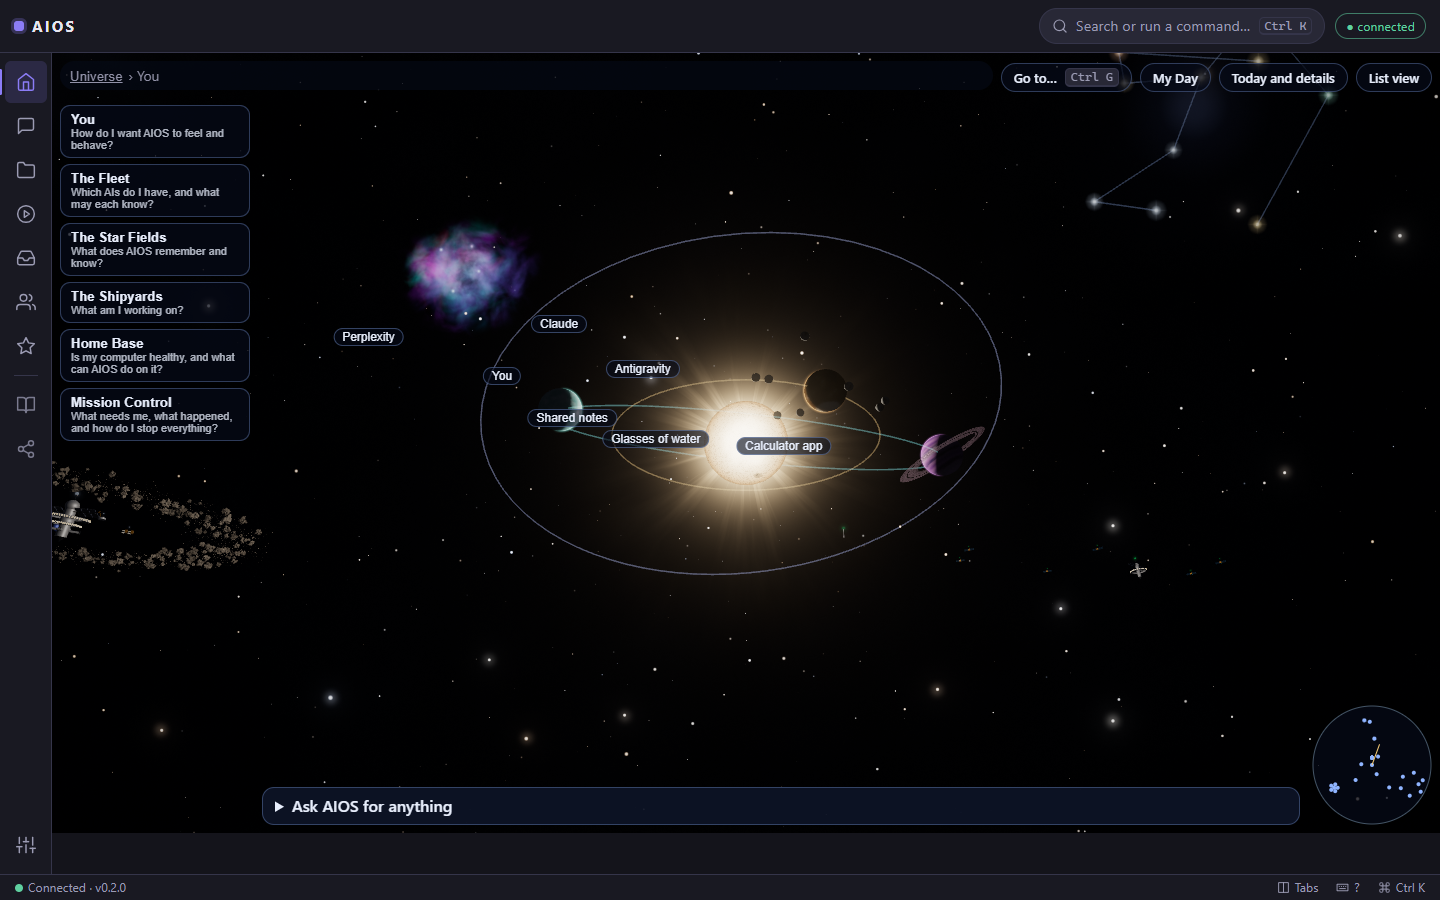
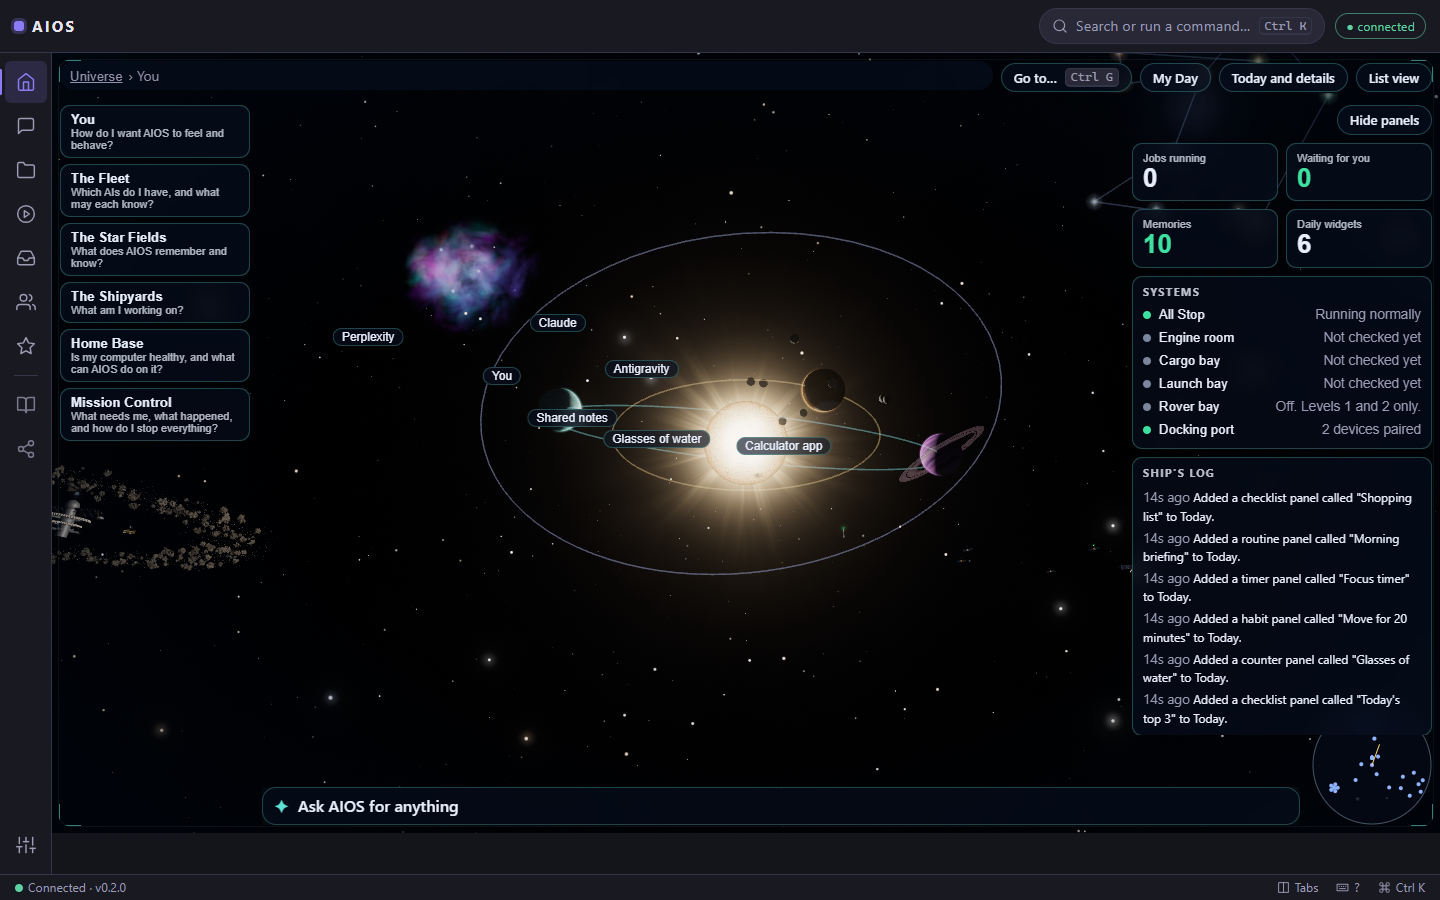
Mission-control glass panels, flat fallback on software graphics, and Android e2e for the cockpit
Design ideas taken from the supplied references: translucent panels with a teal edge, HUD corner frames, at-a-glance tiles, a systems list, a ship's log and pulsing markers for anything that needs you. Devices that draw WebGL in software (such as the emulator) now get the flat universe because the 3D view froze the screen there.

diff --git a/apps/web/src/styles.css b/apps/web/src/styles.css
@@ -615,3 +615,36 @@ details.tech { margin: 18px 0 8px; } details.tech > summary { cursor: pointer; c
 .cockpit .mydock { background: transparent; }
 .cockpit .myday-card button { min-height: 0; padding: 4px 10px; }
 .cockpit .myday-card input[type="checkbox"] { width: 18px; height: 18px; min-height: 0; flex: none; }
+
+/* Mission-control glass: translucent panels, a cool teal edge, HUD corners and a glow on anything that needs you. */
+.cockpit { --glass: rgba(6, 14, 30, .62); --edge: rgba(94, 226, 214, .28); --teal: #5ee2d6; }
+.cockpit::before { content: ""; position: absolute; inset: 0; z-index: 1; pointer-events: none; background: radial-gradient(ellipse at 50% 55%, transparent 45%, rgba(0, 8, 20, .55) 100%); }
+.cockpit::after { content: ""; position: absolute; inset: 6px; z-index: 1; pointer-events: none; border: 1px solid rgba(94, 226, 214, .12); border-radius: 14px;
+  background: linear-gradient(var(--teal), var(--teal)) top left / 22px 1px no-repeat, linear-gradient(var(--teal), var(--teal)) top left / 1px 22px no-repeat,
+    linear-gradient(var(--teal), var(--teal)) top right / 22px 1px no-repeat, linear-gradient(var(--teal), var(--teal)) top right / 1px 22px no-repeat,
+    linear-gradient(var(--teal), var(--teal)) bottom left / 22px 1px no-repeat, linear-gradient(var(--teal), var(--teal)) bottom left / 1px 22px no-repeat,
+    linear-gradient(var(--teal), var(--teal)) bottom right / 22px 1px no-repeat, linear-gradient(var(--teal), var(--teal)) bottom right / 1px 22px no-repeat; opacity: .55; }
+.cockpit .dock button, .cockpit .btn-quiet, .cockpit .u-label, .cockpit .crumbs, .cockpit .ask-dock { background: var(--glass); border-color: var(--edge); backdrop-filter: blur(10px); -webkit-backdrop-filter: blur(10px); }
+.cockpit .object-card, .cockpit .gallery-pop, .cockpit .goto { backdrop-filter: blur(14px); -webkit-backdrop-filter: blur(14px); border-color: var(--edge); box-shadow: 0 0 24px rgba(94, 226, 214, .08); }
+.cockpit .dock button.on, .cockpit .btn-quiet[aria-pressed="true"] { border-color: var(--teal); box-shadow: 0 0 12px rgba(94, 226, 214, .25); }
+.cockpit .u-label.needs-you { border-color: #ffc857; animation: needs-pulse 2s ease-out infinite; }
+@keyframes needs-pulse { 0% { box-shadow: 0 0 0 0 rgba(255, 200, 87, .55); } 70%, 100% { box-shadow: 0 0 0 12px rgba(255, 200, 87, 0); } }
+.cockpit .hud { position: absolute; right: 8px; top: 52px; width: min(300px, calc(100% - 230px)); display: grid; gap: 8px; z-index: 5; max-height: calc(100% - 215px); overflow: auto; }
+.cockpit .hud-toggle { justify-self: end; }
+.cockpit .hud-show { position: absolute; right: 8px; top: 52px; z-index: 5; }
+.cockpit .tiles { display: grid; grid-template-columns: 1fr 1fr; gap: 8px; }
+.cockpit .tile { text-align: left; background: var(--glass); border: 1px solid var(--edge); border-radius: 10px; padding: 8px 10px; color: inherit; cursor: pointer; backdrop-filter: blur(10px); }
+.cockpit .tile-label { display: block; font-size: 11px; opacity: .75; }
+.cockpit .tile-value { display: block; font-size: 26px; font-weight: 600; line-height: 1.1; }
+.cockpit .tile.warn { border-color: #ffc857; } .cockpit .tile.bad { border-color: #ff5d6c; } .cockpit .tile.ok .tile-value { color: #3ee0a0; }
+.cockpit .glass { background: var(--glass); border: 1px solid var(--edge); border-radius: 10px; padding: 8px 10px; backdrop-filter: blur(10px); }
+.cockpit .glass h2 { margin: 0 0 6px; font-size: 11px; letter-spacing: .12em; text-transform: uppercase; opacity: .8; }
+.cockpit .systems, .cockpit .shiplog { list-style: none; margin: 0; padding: 0; display: grid; gap: 2px; font-size: 12px; }
+.cockpit .systems button { display: flex; align-items: center; gap: 8px; width: 100%; background: none; border: 0; color: inherit; text-align: left; padding: 3px 0; cursor: pointer; }
+.cockpit .systems .dot { width: 8px; height: 8px; border-radius: 50%; flex: none; }
+.cockpit .systems .muted { margin-left: auto; }
+@media (max-width: 900px) { .cockpit .hud { display: none; } .cockpit .hud-show { display: none; } }
+@media (prefers-reduced-motion: reduce) { .cockpit .u-label.needs-you { animation: none; } }
+.cockpit .ask-dock { border-radius: 14px; box-shadow: 0 0 22px rgba(94, 226, 214, .10); }
+.cockpit .ask-dock > summary::marker { content: ""; }
+.cockpit .ask-dock > summary::before { content: "\2726"; color: var(--teal); margin-right: 10px; }

diff --git a/apps/web/src/ui/Cockpit.tsx b/apps/web/src/ui/Cockpit.tsx
@@ -10,6 +10,8 @@ import { useApp } from "./Context";
 import { go, useLoad } from "./hooks";
 import { Notice } from "./kit";
 import { FirstLaunch, firstLaunchPending } from "./FirstLaunch";
+import { Hud } from "./Hud";
+import { needsYou } from "../core/hud";
 import { MyDay } from "./MyDay";
 import { ObjectCard } from "./ObjectCard";
 import { WidgetGallery } from "./WidgetGallery";
@@ -155,7 +157,7 @@ export function Cockpit({ objectId, children }: { objectId?: string; children?: 
         <ObjectField world={shown} cam={cam} view={view} selected={selected} hovered={hovered} frames={arrivals.frames} simT={simT} onPick={open} onHover={setHovered} />
       ))}
       {!listView && declutter(shown, cam, view, simT, selected, hovered).map(({ b, x, y, r }) => (
-        <button key={b.id} type="button" className={`u-label ${selected === b.id ? "on" : ""}`} style={{ left: x, top: y + Math.max(8, r) + 4, opacity: arrivals.frames.get(b.id)?.alpha ?? 1 }}
+        <button key={b.id} type="button" className={`u-label ${selected === b.id ? "on" : ""} ${needsYou(b) ? "needs-you" : ""}`} style={{ left: x, top: y + Math.max(8, r) + 4, opacity: arrivals.frames.get(b.id)?.alpha ?? 1 }}
           onClick={() => open(b.id)} onPointerEnter={() => setHovered(b.id)} onPointerLeave={() => setHovered(null)} aria-label={`${b.name}: ${b.state.text}`}>{b.name}</button>))}
       {listView && <ListView world={world} onPick={(id) => { setListView(false); open(id); }} />}
 
@@ -181,6 +183,7 @@ export function Cockpit({ objectId, children }: { objectId?: string; children?: 
           <WidgetGallery onClose={() => setGallery(false)} onAdded={() => { setDayKey((n) => n + 1); setDay(true); void objs.reload(); if (firstLaunchPending()) setShowcase(true); }} />
         </div>)}
       {showcase && <FirstLaunch onDone={() => setShowcase(false)} />}
+      {!selected && !day && !gallery && !listView && list && <Hud objects={list} memories={uni.data?.you.approved ?? null} onOpen={open} />}
       {selected && <ObjectCard id={selected} onClose={() => open(null)} reload={() => { void objs.reload(); }} onReplay={() => arrivals.replay(selected)} />}
       <ArrivalCaption caption={arrivals.caption} onSkip={arrivals.skip} />
       {goOpen && <GoTo world={world} onClose={() => setGoOpen(false)} onPick={(d) => { setGoOpen(false); if (d.kind === "region") { open(null); travelTo(d.id as Region); } else open(d.id); }} />}

diff --git a/apps/web/src/ui/Hud.tsx b/apps/web/src/ui/Hud.tsx
@@ -1,0 +1,40 @@
+import { useState } from "react";
+import { UObject } from "../core/scene";
+import { TONE_DOT, systems, tiles } from "../core/hud";
+import { useApp } from "./Context";
+import { go, useLoad } from "./hooks";
+import { ago } from "./kit";
+
+interface Receipt { id: string; ts: string; actor: string; kind: string; summary: string; changed: number }
+
+/** Glass panels along the right edge: a few real numbers, how each system is, and the ship's log. */
+export function Hud({ objects, memories, onOpen }: { objects: readonly UObject[]; memories: number | null; onOpen: (id: string) => void }) {
+  const { client } = useApp();
+  const [open, setOpen] = useState(true);
+  const log = useLoad(() => client.get<{ items: Receipt[] }>("/receipts", { query: { limit: 6 } }), [client], 20000);
+  if (!open) return <button type="button" className="btn btn-quiet hud-toggle hud-show" onClick={() => setOpen(true)} aria-expanded="false">Show panels</button>;
+  return (
+    <aside className="hud" aria-label="At a glance">
+      <button type="button" className="btn btn-quiet hud-toggle" onClick={() => setOpen(false)} aria-expanded="true">Hide panels</button>
+      <div className="tiles">
+        {tiles(objects, memories).map((t) => (
+          <button key={t.id} type="button" className={`tile ${t.tone}`} title={t.hint} onClick={() => (t.to ? go(t.to as never) : undefined)}>
+            <span className="tile-label">{t.label}</span><span className="tile-value">{t.value}</span>
+          </button>))}
+      </div>
+      <section className="glass" aria-label="Systems">
+        <h2>Systems</h2>
+        <ul className="systems">
+          {systems(objects).map((s) => (
+            <li key={s.id}><button type="button" onClick={() => onOpen(s.id)}><span className="dot" style={{ background: TONE_DOT[s.tone] }} aria-hidden="true" /><span>{s.name}</span><span className="muted small">{s.text}</span></button></li>))}
+        </ul>
+      </section>
+      <section className="glass" aria-label="Ship's log">
+        <h2>Ship's log</h2>
+        {log.data?.items.length ? (
+          <ul className="shiplog">{log.data.items.map((r) => <li key={r.id}><span className="muted small">{ago(r.ts)}</span> {r.summary}</li>)}</ul>
+        ) : <p className="muted small">Nothing yet. What AIOS does will show up here in plain words.</p>}
+      </section>
+    </aside>
+  );
+}

diff --git a/apps/web/src/core/hud.ts b/apps/web/src/core/hud.ts
@@ -1,0 +1,32 @@
+import { Tone, UObject } from "./scene";
+
+// The glass panels over the universe: a few real numbers, the state of each system, and the latest log lines.
+// Everything here is computed from what the server already says; nothing is invented and nothing is a trend we do not have.
+
+export interface Tile { id: string; label: string; value: number; tone: Tone; hint: string; to?: { tab: string; id?: string } }
+export interface SystemRow { id: string; name: string; text: string; tone: Tone }
+
+const countOf = (o: UObject) => (typeof o.meta?.count === "number" ? (o.meta.count as number) : 1);
+
+export function tiles(objects: readonly UObject[], approvedMemories: number | null): Tile[] {
+  const running = objects.filter((o) => o.type === "shuttle" && o.state.tone === "info").length;
+  const waiting = objects.filter((o) => o.type === "comet" && o.id === "comet:approvals").reduce((n, o) => n + countOf(o), 0);
+  const stuck = objects.filter((o) => o.type === "comet" && o.id === "comet:blocked").reduce((n, o) => n + countOf(o), 0);
+  const probes = objects.filter((o) => o.type === "probe").length;
+  const out: Tile[] = [
+    { id: "jobs", label: "Jobs running", value: running, tone: running ? "info" : "muted", hint: "Work in flight between your projects and your AIs", to: { tab: "runs" } },
+    { id: "waiting", label: "Waiting for you", value: waiting + stuck, tone: stuck ? "bad" : waiting ? "warn" : "ok", hint: "Approvals and stuck jobs", to: { tab: "inbox" } },
+    { id: "probes", label: "Daily widgets", value: probes, tone: "muted", hint: "Probes in My Day" },
+  ];
+  if (approvedMemories !== null) out.splice(2, 0, { id: "memories", label: "Memories", value: approvedMemories, tone: "ok", hint: "Things AIOS remembers for you", to: { tab: "ais", id: "knows" } });
+  return out;
+}
+
+export function systems(objects: readonly UObject[]): SystemRow[] {
+  return objects.filter((o) => o.type === "module" || o.type === "allstop").map((o) => ({ id: o.id, name: o.name, text: o.state.text, tone: o.state.tone }));
+}
+
+export const TONE_DOT: Record<Tone, string> = { ok: "#3ee0a0", info: "#5ab4ff", warn: "#ffc857", bad: "#ff5d6c", muted: "#7a869c" };
+
+/** Things that need you glow and pulse so you can find them in the dark. */
+export const needsYou = (o: UObject) => o.state.tone === "warn" || o.state.tone === "bad";

diff --git a/apps/web/src/gl/capabilities.ts b/apps/web/src/gl/capabilities.ts
@@ -1,5 +1,8 @@
 // WebGL2 feature detection. `make` lets tests supply a fake canvas.
+type GLLike = { getExtension?(n: string): unknown; getParameter?(p: number): unknown };
 type CanvasLike = { getContext(kind: string, opts?: unknown): unknown };
+
+const SOFTWARE = /swiftshader|llvmpipe|softpipe|software|basic render|microsoft basic/i;
 
 export function isWebGL2Available(make: () => CanvasLike = () => document.createElement("canvas")): boolean {
   try {
@@ -9,7 +12,24 @@ export function isWebGL2Available(make: () => CanvasLike = () => document.create
   }
 }
 
-/** Why WebGL2 cannot be used, in plain words, or null when it can. */
-export function unsupportedReason(make?: () => CanvasLike): string | null {
-  return isWebGL2Available(make) ? null : "This browser or device does not support WebGL2, so the 3D universe cannot be drawn.";
+/** The name of the graphics chip the browser reports, or "" when it will not say. */
+export function rendererName(gl: GLLike | null): string {
+  try {
+    const ext = gl?.getExtension?.("WEBGL_debug_renderer_info") as { UNMASKED_RENDERER_WEBGL: number } | null | undefined;
+    return ext && gl?.getParameter ? String(gl.getParameter(ext.UNMASKED_RENDERER_WEBGL) ?? "") : "";
+  } catch {
+    return "";
+  }
+}
+
+const forced = () => { try { return localStorage.getItem("aios.gl.force") === "1"; } catch { return false; } };
+
+/** Why the 3D universe should not be used, in plain words, or null when it can. A phone emulator or a machine with no graphics chip
+ *  draws WebGL in software, which freezes the screen, so those get the flat universe unless the person forces 3D on. */
+export function unsupportedReason(make: () => CanvasLike = () => document.createElement("canvas")): string | null {
+  let gl: unknown = null;
+  try { gl = make().getContext("webgl2"); } catch { gl = null; }
+  if (!gl) return "This browser or device does not support WebGL2, so the 3D universe cannot be drawn.";
+  if (!forced() && SOFTWARE.test(rendererName(gl as GLLike))) return "This device draws 3D in software, which is too slow, so AIOS shows the flat universe instead.";
+  return null;
 }

diff --git a/apps/web/src/core/hud.test.ts b/apps/web/src/core/hud.test.ts
@@ -1,0 +1,23 @@
+import { describe, expect, it } from "vitest";
+import { needsYou, systems, tiles } from "./hud";
+import { sampleObjects } from "./scene.fixtures";
+
+describe("the glass panels", () => {
+  it("counts only what the server says, and flags anything stuck", () => {
+    const t = Object.fromEntries(tiles(sampleObjects(), 70).map((x) => [x.id, x]));
+    expect(t.jobs.value).toBe(2);                                    // two shuttles are working; the third waits on you
+    expect(t.memories.value).toBe(70);
+    expect(t.probes.value).toBe(3);
+    expect(tiles(sampleObjects(), null).some((x) => x.id === "memories")).toBe(false);   // no number, no tile
+    const withCounts = sampleObjects().map((o) => (o.id === "comet:approvals" ? { ...o, meta: { count: 4 } } : o.id === "comet:blocked" ? { ...o, meta: { count: 1 } } : o));
+    const w = tiles(withCounts, 5).find((x) => x.id === "waiting")!;
+    expect(w.value).toBe(5); expect(w.tone).toBe("bad");
+  });
+  it("lists each system with its state, and marks what needs you", () => {
+    const s = systems(sampleObjects());
+    expect(s.length).toBeGreaterThan(1);
+    expect(s.every((r) => r.name && r.text)).toBe(true);
+    expect(needsYou(sampleObjects().find((o) => o.id === "comet:approvals")!)).toBe(true);
+    expect(needsYou(sampleObjects().find((o) => o.id === "log")!)).toBe(false);
+  });
+});

diff --git a/apps/web/src/test/gl.logic.test.ts b/apps/web/src/test/gl.logic.test.ts
@@ -185,3 +185,21 @@ describe("world signature", () => {
     expect(worldSignature({ ...world, stars: world.stars.slice(1) })).not.toBe(base);
   });
 });
+
+import { rendererName } from "../gl/capabilities";
+describe("software graphics are not used for the 3D universe", () => {
+  const canvas = (renderer: string | null) => () => ({ getContext: () => (renderer === null ? null : ({ getExtension: () => ({ UNMASKED_RENDERER_WEBGL: 1 }), getParameter: () => renderer })) });
+  it("uses a real graphics chip and refuses SwiftShader and friends", () => {
+    expect(unsupportedReason(canvas("ANGLE (Intel, Intel(R) Arc(TM) Graphics, D3D11)"))).toBeNull();
+    expect(unsupportedReason(canvas("ANGLE (Google, Vulkan 1.3.0 (SwiftShader Device), SwiftShader driver)"))).toMatch(/software/);
+    expect(unsupportedReason(canvas("llvmpipe (LLVM 15.0.7, 256 bits)"))).toMatch(/software/);
+    expect(unsupportedReason(canvas(null))).toMatch(/WebGL2/);
+  });
+  it("can be forced on, and reads the renderer name safely", () => {
+    localStorage.setItem("aios.gl.force", "1");
+    expect(unsupportedReason(canvas("SwiftShader"))).toBeNull();
+    localStorage.clear();
+    expect(rendererName(null)).toBe("");
+    expect(rendererName({ getExtension: () => null })).toBe("");
+  });
+});
